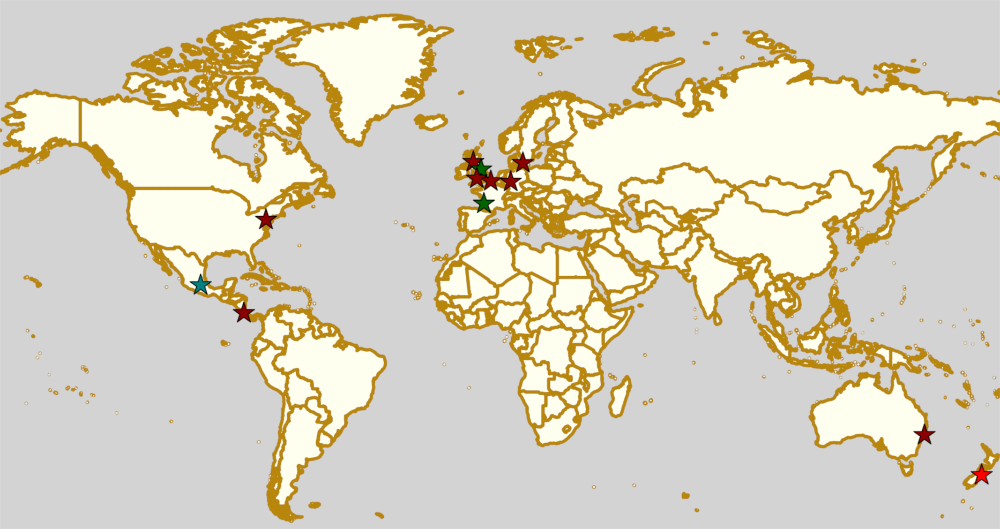
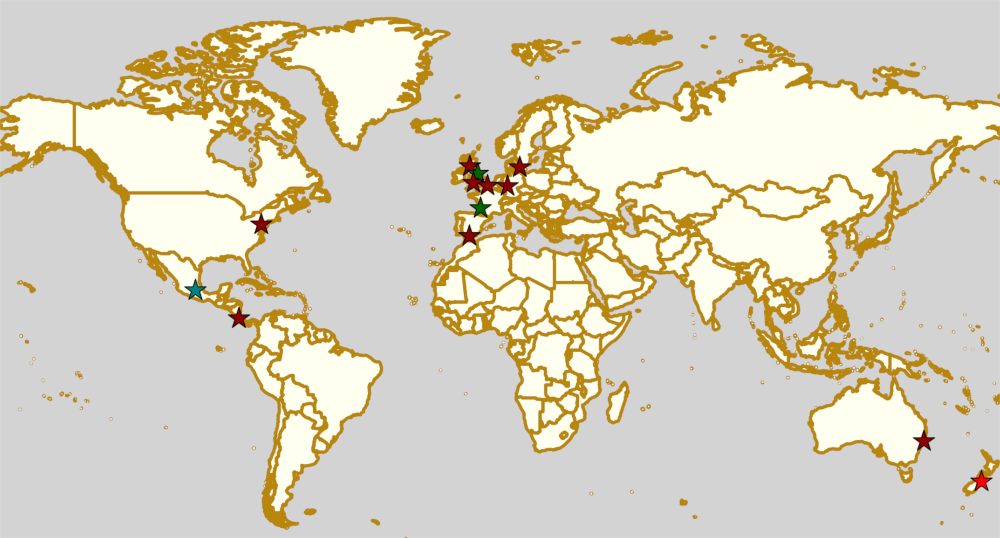
Added Las Judas' roller derby festival to 24 Aug highlights

diff --git a/posts/highlights/2019/weekendhighlights-24082019/index.html b/posts/highlights/2019/weekendhighlights-24082019/index.html
@@ -27,6 +27,7 @@
         <br><span class="tags">Tags: 
                     <a class="tag" href="../../../../categories/argentine-roller-derby/"><span>argentine roller derby</span></a>
                     <a class="tag" href="../../../../categories/australian-roller-derby/"><span>australian roller derby</span></a>
+                    <a class="tag" href="../../../../categories/bootcamps/"><span>bootcamps</span></a>
                     <a class="tag" href="../../../../categories/british-roller-derby/"><span>british roller derby</span></a>
                     <a class="tag" href="../../../../categories/costa-rican-roller-derby/"><span>costa rican roller derby</span></a>
                     <a class="tag" href="../../../../categories/french-roller-derby/"><span>french roller derby</span></a>
@@ -34,6 +35,7 @@
                     <a class="tag" href="../../../../categories/mexican-roller-derby/"><span>mexican roller derby</span></a>
                     <a class="tag" href="../../../../categories/national-tournaments/"><span>national tournaments</span></a>
                     <a class="tag" href="../../../../categories/new-zealand-roller-derby/"><span>new zealand roller derby</span></a>
+                    <a class="tag" href="../../../../categories/spanish-roller-derby/"><span>spanish roller derby</span></a>
                     <a class="tag" href="../../../../categories/swedish-roller-derby/"><span>swedish roller derby</span></a>
                     <a class="tag" href="../../../../categories/weekend-highlights/"><span>weekend highlights</span></a>
                 </span>
@@ -43,7 +45,7 @@
         </span>
         </div>
     <div>
-<p>This weekend's biggest events are in Mexico, the USA and the UK: Mexico City hosts the second Division 1 Playoffs for the Mexican National tournament, determining who will join Playoff 1 qualifiers Baja Roller Derby, All-Star Juarez and Discordias in the Championships; Sailor City Rollers represent Latin America in the second North American WFTDA Continental Cup this post season; and Riot City Rollers host the first ever Chartist Cup in Wales. Meanwhile, in Scotland, we're raising money to fight cancer with the return of Charity Roller Derby Sevens tournament, Krustfest, for a second year.</p>
+<p>This weekend's biggest events are in Mexico, the USA and the UK: Mexico City hosts the second Division 1 Playoffs for the Mexican National tournament, determining who will join Playoff 1 qualifiers Baja Roller Derby, All-Star Juarez and Discordias in the Championships; Sailor City Rollers represent Latin America in the second North American WFTDA Continental Cup this post season; and Riot City Rollers host the first ever Chartist Cup in Wales. Meanwhile, in Scotland, we're raising money to fight cancer with the return of Charity Roller Derby Sevens tournament, Krustfest, for a second year, and in Spain they're holding a Roller Derby festival!</p>
 <p>The rules are, as usual: highlights limited to 1 event per country, with an "extra" event allowed for a different kind of fixture
 (so, 1 tournament and 1 bootcamp), or if they involve Scottish leagues (since we are the <em>Scottish</em> Roller Derby Blog).
 Other notability might also allow the extra event - great posters, notable teams, etc. (League birthdays may count as "special" enough, at our discretion ;) )</p>
@@ -161,6 +163,32 @@ get themselves an actual webpage [we can help host one if you need help]).</p>
 </ul>
 <p>Event starts: 0900 Saturday</p>
 <p>Venue: Cwmbran Stadium, Cwmbran, Wales, UK</p>
+</div>
+<div class="section" id="fri-sun-malaga-spain">
+<h2>Fri-Sun: Málaga, Spain</h2>
+<p><a class="reference external" href="https://www.facebook.com/events/885591205153056/">[FACEBOOK LINK]</a></p>
+<p><a class="reference external" href="https://www.instagram.com/lasjudasrd/">Las Judas Roller Derby</a> host a three-day outdoor Roller Derby Festival, starting on Friday. Running every evening from 1800, Friday and Saturday host double-headers of themed, mixed-subscription bouts, and end with non-derby festivities, whilst the Sunday is dedicated to a Ramps workshop.</p>
+<ul class="simple">
+<li>Friday<ul>
+<li>Themed Game: FLOWER POWER versus METAL HEAD</li>
+<li>Themed Game: TRAP versus FLAMENCO</li>
+<li>WATER WAR (we think this is a water-balloon fight)</li>
+</ul>
+</li>
+<li>Saturday<ul>
+<li>Themed Game: GLITTER versus ZOMBI</li>
+<li>Themed Game: DRAG KINGS versus DRAG QUEENS</li>
+<li>ROLL THE DICE (we don't know what this is)</li>
+<li>ROLLER DISCO</li>
+</ul>
+</li>
+<li>Sunday:<ul>
+<li>Ramp Workshop (by Locas por las Ruedas)</li>
+</ul>
+</li>
+</ul>
+<p>Event starts: 1800 Friday (event opens)</p>
+<p>Venue: Skatepark Málaga "Rubén Alcántara", Camino Cuarto,  Málaga, Spain</p>
 </div>
 <div class="section" id="sat-sun-san-jose-costa-rica">
 <h2>Sat-Sun: San José, Costa Rica</h2>

diff --git a/index.html b/index.html
@@ -25,6 +25,7 @@
                 <br><span class="tags">Tags: 
                             <a class="tag" href="categories/argentine-roller-derby/"><span>argentine roller derby</span></a>
                             <a class="tag" href="categories/australian-roller-derby/"><span>australian roller derby</span></a>
+                            <a class="tag" href="categories/bootcamps/"><span>bootcamps</span></a>
                             <a class="tag" href="categories/british-roller-derby/"><span>british roller derby</span></a>
                             <a class="tag" href="categories/costa-rican-roller-derby/"><span>costa rican roller derby</span></a>
                             <a class="tag" href="categories/french-roller-derby/"><span>french roller derby</span></a>
@@ -32,12 +33,13 @@
                             <a class="tag" href="categories/mexican-roller-derby/"><span>mexican roller derby</span></a>
                             <a class="tag" href="categories/national-tournaments/"><span>national tournaments</span></a>
                             <a class="tag" href="categories/new-zealand-roller-derby/"><span>new zealand roller derby</span></a>
+                            <a class="tag" href="categories/spanish-roller-derby/"><span>spanish roller derby</span></a>
                             <a class="tag" href="categories/swedish-roller-derby/"><span>swedish roller derby</span></a>
                             <a class="tag" href="categories/weekend-highlights/"><span>weekend highlights</span></a>
                 </span>
             </div>
         <div>
-<p>This weekend's biggest events are in Mexico, the USA and the UK: Mexico City hosts the second Division 1 Playoffs for the Mexican National tournament, determining who will join Playoff 1 qualifiers Baja Roller Derby, All-Star Juarez and Discordias in the Championships; Sailor City Rollers represent Latin America in the second North American WFTDA Continental Cup this post season; and Riot City Rollers host the first ever Chartist Cup in Wales. Meanwhile, in Scotland, we're raising money to fight cancer with the return of Charity Roller Derby Sevens tournament, Krustfest, for a second year.</p>
+<p>This weekend's biggest events are in Mexico, the USA and the UK: Mexico City hosts the second Division 1 Playoffs for the Mexican National tournament, determining who will join Playoff 1 qualifiers Baja Roller Derby, All-Star Juarez and Discordias in the Championships; Sailor City Rollers represent Latin America in the second North American WFTDA Continental Cup this post season; and Riot City Rollers host the first ever Chartist Cup in Wales. Meanwhile, in Scotland, we're raising money to fight cancer with the return of Charity Roller Derby Sevens tournament, Krustfest, for a second year, and in Spain they're holding a Roller Derby festival!</p>
 <p>The rules are, as usual: highlights limited to 1 event per country, with an "extra" event allowed for a different kind of fixture
 (so, 1 tournament and 1 bootcamp), or if they involve Scottish leagues (since we are the <em>Scottish</em> Roller Derby Blog).
 Other notability might also allow the extra event - great posters, notable teams, etc. (League birthdays may count as "special" enough, at our discretion ;) )</p>

diff --git a/categories/bootcamps/index.html b/categories/bootcamps/index.html
@@ -29,6 +29,9 @@
 
     </header><ul class="postlist">
 <li>
+<time class="listdate" datetime="2019-08-20T10:00:00+01:00" title="2019-08-20 10:00">2019-08-20 10:00</time><a href="../../posts/highlights/2019/weekendhighlights-24082019/" class="listtitle">Weekend Highlights: 24 August 2019</a><a></a>
+</li>
+            <li>
 <time class="listdate" datetime="2019-08-06T19:30:00+01:00" title="2019-08-06 19:30">2019-08-06 19:30</time><a href="../../posts/highlights/2019/weekendhighlights-10082019/" class="listtitle">Weekend Highlights: 10 August 2019</a><a></a>
 </li>
             <li>

diff --git a/categories/spanish-roller-derby/index.html b/categories/spanish-roller-derby/index.html
@@ -29,6 +29,9 @@
 
     </header><ul class="postlist">
 <li>
+<time class="listdate" datetime="2019-08-20T10:00:00+01:00" title="2019-08-20 10:00">2019-08-20 10:00</time><a href="../../posts/highlights/2019/weekendhighlights-24082019/" class="listtitle">Weekend Highlights: 24 August 2019</a><a></a>
+</li>
+            <li>
 <time class="listdate" datetime="2019-07-16T14:00:00+01:00" title="2019-07-16 14:00">2019-07-16 14:00</time><a href="../../posts/highlights/2019/weekendhighlights-20072019/" class="listtitle">Weekend Highlights: 20 July 2019</a><a></a>
 </li>
             <li>

diff --git a/posts/highlights/2019/weekendhighlights-24082019/index.rst b/posts/highlights/2019/weekendhighlights-24082019/index.rst
@@ -1,14 +1,14 @@
 .. title: Weekend Highlights: 24 August 2019
 .. slug: weekendhighlights-24082019
 .. date: 2019-08-20 10:00:00 UTC+01:00
-.. tags: weekend highlights, new zealand roller derby, australian roller derby, swedish roller derby, german roller derby, british roller derby, french roller derby, costa rican roller derby, mexican roller derby, argentine roller derby, national tournaments
+.. tags: weekend highlights, new zealand roller derby, australian roller derby, swedish roller derby, german roller derby, british roller derby, french roller derby, costa rican roller derby, mexican roller derby, argentine roller derby, national tournaments, spanish roller derby, bootcamps
 .. category:
 .. link:
 .. description:
 .. type: text
 .. author: aoanla
 
-This weekend's biggest events are in Mexico, the USA and the UK: Mexico City hosts the second Division 1 Playoffs for the Mexican National tournament, determining who will join Playoff 1 qualifiers Baja Roller Derby, All-Star Juarez and Discordias in the Championships; Sailor City Rollers represent Latin America in the second North American WFTDA Continental Cup this post season; and Riot City Rollers host the first ever Chartist Cup in Wales. Meanwhile, in Scotland, we're raising money to fight cancer with the return of Charity Roller Derby Sevens tournament, Krustfest, for a second year.
+This weekend's biggest events are in Mexico, the USA and the UK: Mexico City hosts the second Division 1 Playoffs for the Mexican National tournament, determining who will join Playoff 1 qualifiers Baja Roller Derby, All-Star Juarez and Discordias in the Championships; Sailor City Rollers represent Latin America in the second North American WFTDA Continental Cup this post season; and Riot City Rollers host the first ever Chartist Cup in Wales. Meanwhile, in Scotland, we're raising money to fight cancer with the return of Charity Roller Derby Sevens tournament, Krustfest, for a second year, and in Spain they're holding a Roller Derby festival!
 
 The rules are, as usual: highlights limited to 1 event per country, with an "extra" event allowed for a different kind of fixture
 (so, 1 tournament and 1 bootcamp), or if they involve Scottish leagues (since we are the *Scottish* Roller Derby Blog).
@@ -212,6 +212,41 @@ Sat-Sun: Cwmbran, Wales, UK
 Event starts: 0900 Saturday
 
 Venue: Cwmbran Stadium, Cwmbran, Wales, UK
+
+Fri-Sun: Málaga, Spain
+--------------------------------
+
+`[FACEBOOK LINK]`__
+
+.. __: https://www.facebook.com/events/885591205153056/
+
+
+`Las Judas Roller Derby`_ host a three-day outdoor Roller Derby Festival, starting on Friday. Running every evening from 1800, Friday and Saturday host double-headers of themed, mixed-subscription bouts, and end with non-derby festivities, whilst the Sunday is dedicated to a Ramps workshop.
+
+.. _Las Judas Roller Derby: https://www.instagram.com/lasjudasrd/
+
+- Friday
+
+  - Themed Game: FLOWER POWER versus METAL HEAD
+  - Themed Game: TRAP versus FLAMENCO
+  - WATER WAR (we think this is a water-balloon fight)
+
+- Saturday
+
+  - Themed Game: GLITTER versus ZOMBI
+  - Themed Game: DRAG KINGS versus DRAG QUEENS
+  - ROLL THE DICE (we don't know what this is)
+  - ROLLER DISCO
+
+- Sunday:
+
+  - Ramp Workshop (by Locas por las Ruedas)
+
+Event starts: 1800 Friday (event opens)
+
+Venue: Skatepark Málaga "Rubén Alcántara", Camino Cuarto,  Málaga, Spain
+
+
 
 Sat-Sun: San José, Costa Rica
 --------------------------------
